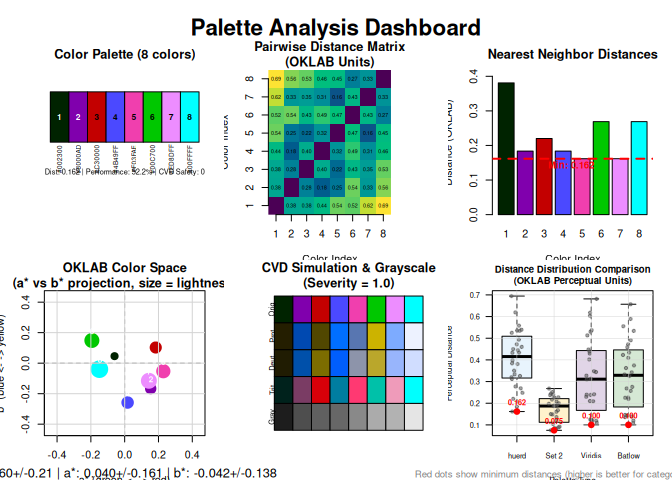
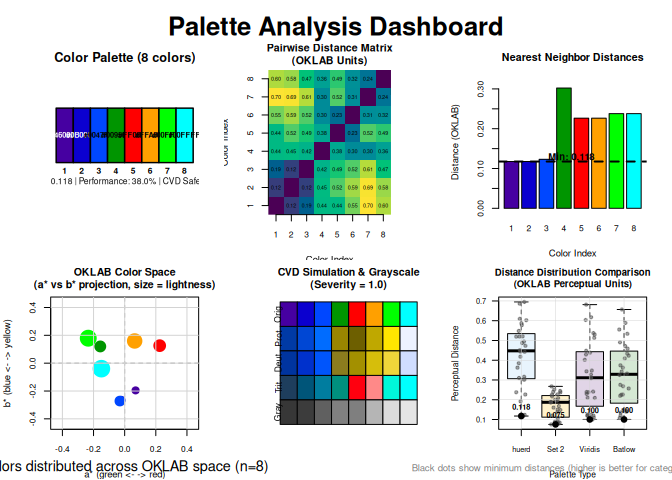
feat: comprehensive dashboard visualization overhaul
- Remove overlapping color indices from scatter plot for better readability
- Replace harsh red colors with accessible black throughout dashboard
- Redesign swatches with larger size, hex codes inside, numbers below
- Improve text sizing and margins across all panels for readability
- Clean up overlapping text and simplify coordinate displays
- Create professional, accessible visualization suitable for scientific use

diff --git a/README.md b/README.md
@@ -39,22 +39,22 @@ print(palette)
 #> 
 #> -- huerd Color Palette (8 colors) --
 #> Colors:
-#> [ 1] #170600
-#> [ 2] #640097
-#> [ 3] #9A0038
-#> [ 4] #0044FF
-#> [ 5] #FF0000
-#> [ 6] #00ABFF
-#> [ 7] #00FFEB
-#> [ 8] #EFFF00
+#> [ 1] #3D0000
+#> [ 2] #0000E4
+#> [ 3] #FF0000
+#> [ 4] #0091FF
+#> [ 5] #FF00E5
+#> [ 6] #BCAC5E
+#> [ 7] #FF85B7
+#> [ 8] #00DDFF
 #> 
 #> -- Quality Metrics Summary --
-#> * Min. Perceptual Distance (OKLAB): 0.206
-#> * Optimizer Performance Ratio      : 66.5%
-#> * Min. CVD-Safe Distance (OKLAB)  : 0.169
+#> * Min. Perceptual Distance (OKLAB): 0.188
+#> * Optimizer Performance Ratio      : 60.6%
+#> * Min. CVD-Safe Distance (OKLAB)  : 0.101
 #> 
 #> -- Generation Details --
-#> * Optimizer Iterations: 677
+#> * Optimizer Iterations: 861
 #> * Optimizer Status: NLOPT_XTOL_REACHED: Optimization stopped because xtol_rel or xtol_abs (above) was reached.
 ```
 
@@ -73,22 +73,22 @@ print(palette)
 #> 
 #> -- huerd Color Palette (8 colors) --
 #> Colors:
-#> [ 1] #13345B
-#> [ 2] #9A3A34
+#> [ 1] #4C4100
+#> [ 2] #005156
 #> [ 3] #4A6B8A
-#> [ 4] #4E9558
-#> [ 5] #C07FA2
+#> [ 4] #427AEC
+#> [ 5] #A09EAF
 #> [ 6] #E5A04C
-#> [ 7] #70CFA4
-#> [ 8] #D3BCFF
+#> [ 7] #8EB4FF
+#> [ 8] #00EFFF
 #> 
 #> -- Quality Metrics Summary --
-#> * Min. Perceptual Distance (OKLAB): 0.169
-#> * Optimizer Performance Ratio      : 54.5%
-#> * Min. CVD-Safe Distance (OKLAB)  : 0.095
+#> * Min. Perceptual Distance (OKLAB): 0.115
+#> * Optimizer Performance Ratio      : 37.1%
+#> * Min. CVD-Safe Distance (OKLAB)  : 0.106
 #> 
 #> -- Generation Details --
-#> * Optimizer Iterations: 392
+#> * Optimizer Iterations: 573
 #> * Optimizer Status: NLOPT_XTOL_REACHED: Optimization stopped because xtol_rel or xtol_abs (above) was reached.
 ```
 
@@ -117,11 +117,11 @@ evaluation <- evaluate_palette(palette)
 
 # Access raw metrics (no subjective scoring)
 cat("Minimum distance:", evaluation$distances$min, "\n")
-#> Minimum distance: 0.1539379
+#> Minimum distance: 0.09164296
 cat("Performance ratio:", evaluation$distances$performance_ratio * 100, "%\n")
-#> Performance ratio: 49.67927 %
+#> Performance ratio: 29.57528 %
 cat("CVD worst case:", evaluation$cvd_safety$worst_case_min_distance, "\n")
-#> CVD worst case: 0.1403357
+#> CVD worst case: 0.0596302
 ```
 
 ## Custom Parameters
@@ -141,22 +141,22 @@ print(palette)
 #> 
 #> -- huerd Color Palette (8 colors) --
 #> Colors:
-#> [ 1] #498F5D
-#> [ 2] #9965BC
-#> [ 3] #A294F7
-#> [ 4] #E39890
-#> [ 5] #00D1D9
-#> [ 6] #D1D770
-#> [ 7] #00F7FF
-#> [ 8] #FFF5BC
+#> [ 1] #705DB7
+#> [ 2] #C86AB6
+#> [ 3] #9C9A2F
+#> [ 4] #F17587
+#> [ 5] #27C4C1
+#> [ 6] #FDA700
+#> [ 7] #B7CE9B
+#> [ 8] #84DAFD
 #> 
 #> -- Quality Metrics Summary --
-#> * Min. Perceptual Distance (OKLAB): 0.106
-#> * Optimizer Performance Ratio      : 34.2%
-#> * Min. CVD-Safe Distance (OKLAB)  : 0.102
+#> * Min. Perceptual Distance (OKLAB): 0.113
+#> * Optimizer Performance Ratio      : 36.4%
+#> * Min. CVD-Safe Distance (OKLAB)  : 0.083
 #> 
 #> -- Generation Details --
-#> * Optimizer Iterations: 665
+#> * Optimizer Iterations: 546
 #> * Optimizer Status: NLOPT_XTOL_REACHED: Optimization stopped because xtol_rel or xtol_abs (above) was reached.
 ```
 
@@ -192,9 +192,9 @@ plot_palette_analysis(brand_palette)
 # 3. Quality evaluation
 evaluation <- evaluate_palette(brand_palette)
 cat("Min distance:", round(evaluation$distances$min, 3), "\n")
-#> Min distance: 0.134
+#> Min distance: 0.124
 cat("Performance:", round(evaluation$distances$performance_ratio * 100, 1), "%\n")
-#> Performance: 43.3 %
+#> Performance: 40.1 %
 
 # 4. CVD accessibility check
 cvd_safe <- is_cvd_safe(brand_palette)
@@ -203,7 +203,7 @@ if (cvd_safe) {
 } else {
   cat("Palette may challenge CVD viewers\n")
 }
-#> Palette may challenge CVD viewers
+#> Palette is CVD-accessible
 
 # 5. CVD simulation for verification
 cvd_simulation <- simulate_palette_cvd(brand_palette, cvd_type = "all")
@@ -211,62 +211,62 @@ print(cvd_simulation)
 #> 
 #> -- huerd CVD Simulation Result (Multiple Types, Severity: 1.00) --
 #> Palette for: original
-#>   [ 1] #1F77B4
-#>   [ 2] #BA3E9D
-#>   [ 3] #009F69
-#>   [ 4] #A581CA
-#>   [ 5] #FF7F0E
-#>   [ 6] #F28BC5
-#>   [ 7] #00FCE9
-#>   [ 8] #EFEA52
+#>   [ 1] #AC4374
+#>   [ 2] #1F77B4
+#>   [ 3] #827300
+#>   [ 4] #4CAC8E
+#>   [ 5] #AB80FF
+#>   [ 6] #FF7F0E
+#>   [ 7] #00CAE2
+#>   [ 8] #DBE9FF
 #> Palette for: protan
-#>   [ 1] #5A79B7
-#>   [ 2] #4364A0
-#>   [ 3] #9D9266
-#>   [ 4] #728FCD
-#>   [ 5] #A59100
-#>   [ 6] #93A2C7
-#>   [ 7] #EEEDE8
-#>   [ 8] #FDE13C
+#>   [ 1] #535D75
+#>   [ 2] #5A79B7
+#>   [ 3] #806F00
+#>   [ 4] #A8A28D
+#>   [ 5] #5298FF
+#>   [ 6] #A59100
+#>   [ 7] #B6C2E3
+#>   [ 8] #E2EAFF
 #> Palette for: deutan
-#>   [ 1] #456CB3
-#>   [ 2] #6A779A
-#>   [ 3] #8D866D
-#>   [ 4] #7991C8
-#>   [ 5] #C4AE05
-#>   [ 6] #AEB3C2
-#>   [ 7] #D3D9EB
-#>   [ 8] #FFE75C
+#>   [ 1] #6F7072
+#>   [ 2] #456CB3
+#>   [ 3] #84750F
+#>   [ 4] #999790
+#>   [ 5] #5C96FC
+#>   [ 6] #C4AE05
+#>   [ 7] #9DB0E2
+#>   [ 8] #DEE6FE
 #> Palette for: tritan
-#>   [ 1] #00868D
-#>   [ 2] #C44368
-#>   [ 3] #009E91
-#>   [ 4] #A08C9C
-#>   [ 5] #FF616D
-#>   [ 6] #FE8AA0
-#>   [ 7] #00FFF6
-#>   [ 8] #FFDBCB
+#>   [ 1] #B93C56
+#>   [ 2] #00868D
+#>   [ 3] #8D6961
+#>   [ 4] #1BADA3
+#>   [ 5] #9899B4
+#>   [ 6] #FF616D
+#>   [ 7] #00D5D1
+#>   [ 8] #D3EDF0
 
 # 6. Display final palette (colors are brightness-sorted)
 print(brand_palette)
 #> 
 #> -- huerd Color Palette (8 colors) --
 #> Colors:
-#> [ 1] #1F77B4
-#> [ 2] #BA3E9D
-#> [ 3] #009F69
-#> [ 4] #A581CA
-#> [ 5] #FF7F0E
-#> [ 6] #F28BC5
-#> [ 7] #00FCE9
-#> [ 8] #EFEA52
+#> [ 1] #AC4374
+#> [ 2] #1F77B4
+#> [ 3] #827300
+#> [ 4] #4CAC8E
+#> [ 5] #AB80FF
+#> [ 6] #FF7F0E
+#> [ 7] #00CAE2
+#> [ 8] #DBE9FF
 #> 
 #> -- Quality Metrics Summary --
-#> * Min. Perceptual Distance (OKLAB): 0.134
-#> * Optimizer Performance Ratio      : 43.3%
-#> * Min. CVD-Safe Distance (OKLAB)  : 0.073
+#> * Min. Perceptual Distance (OKLAB): 0.124
+#> * Optimizer Performance Ratio      : 40.1%
+#> * Min. CVD-Safe Distance (OKLAB)  : 0.116
 #> 
 #> -- Generation Details --
-#> * Optimizer Iterations: 727
+#> * Optimizer Iterations: 634
 #> * Optimizer Status: NLOPT_XTOL_REACHED: Optimization stopped because xtol_rel or xtol_abs (above) was reached.
 ```
